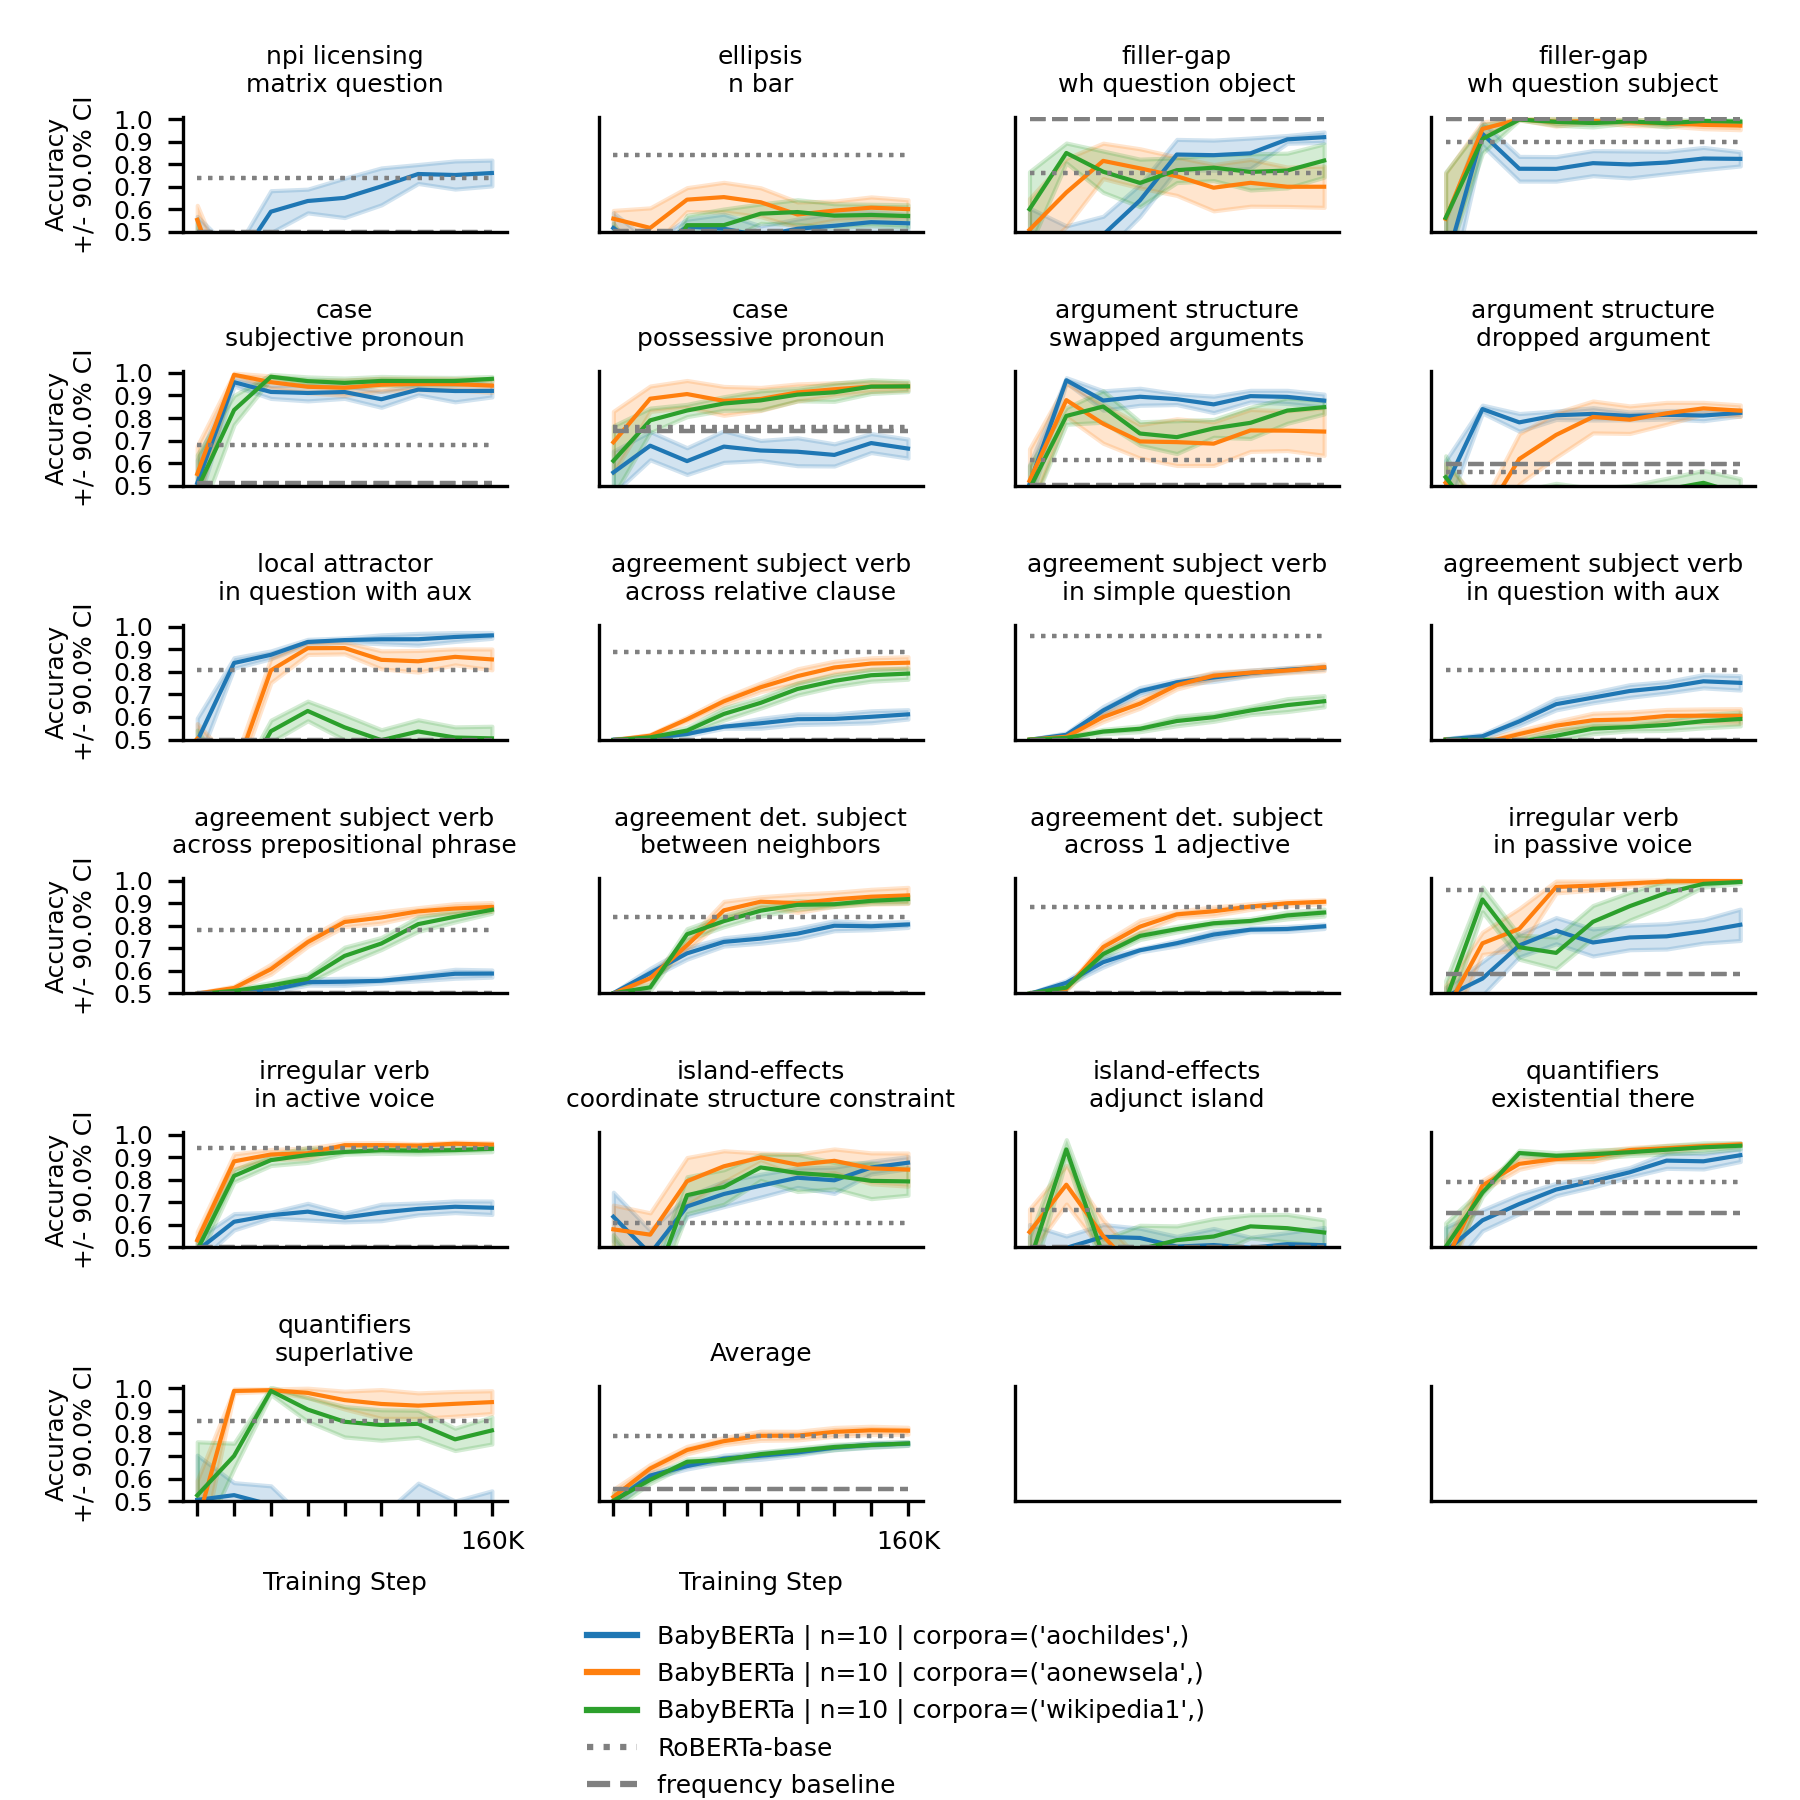
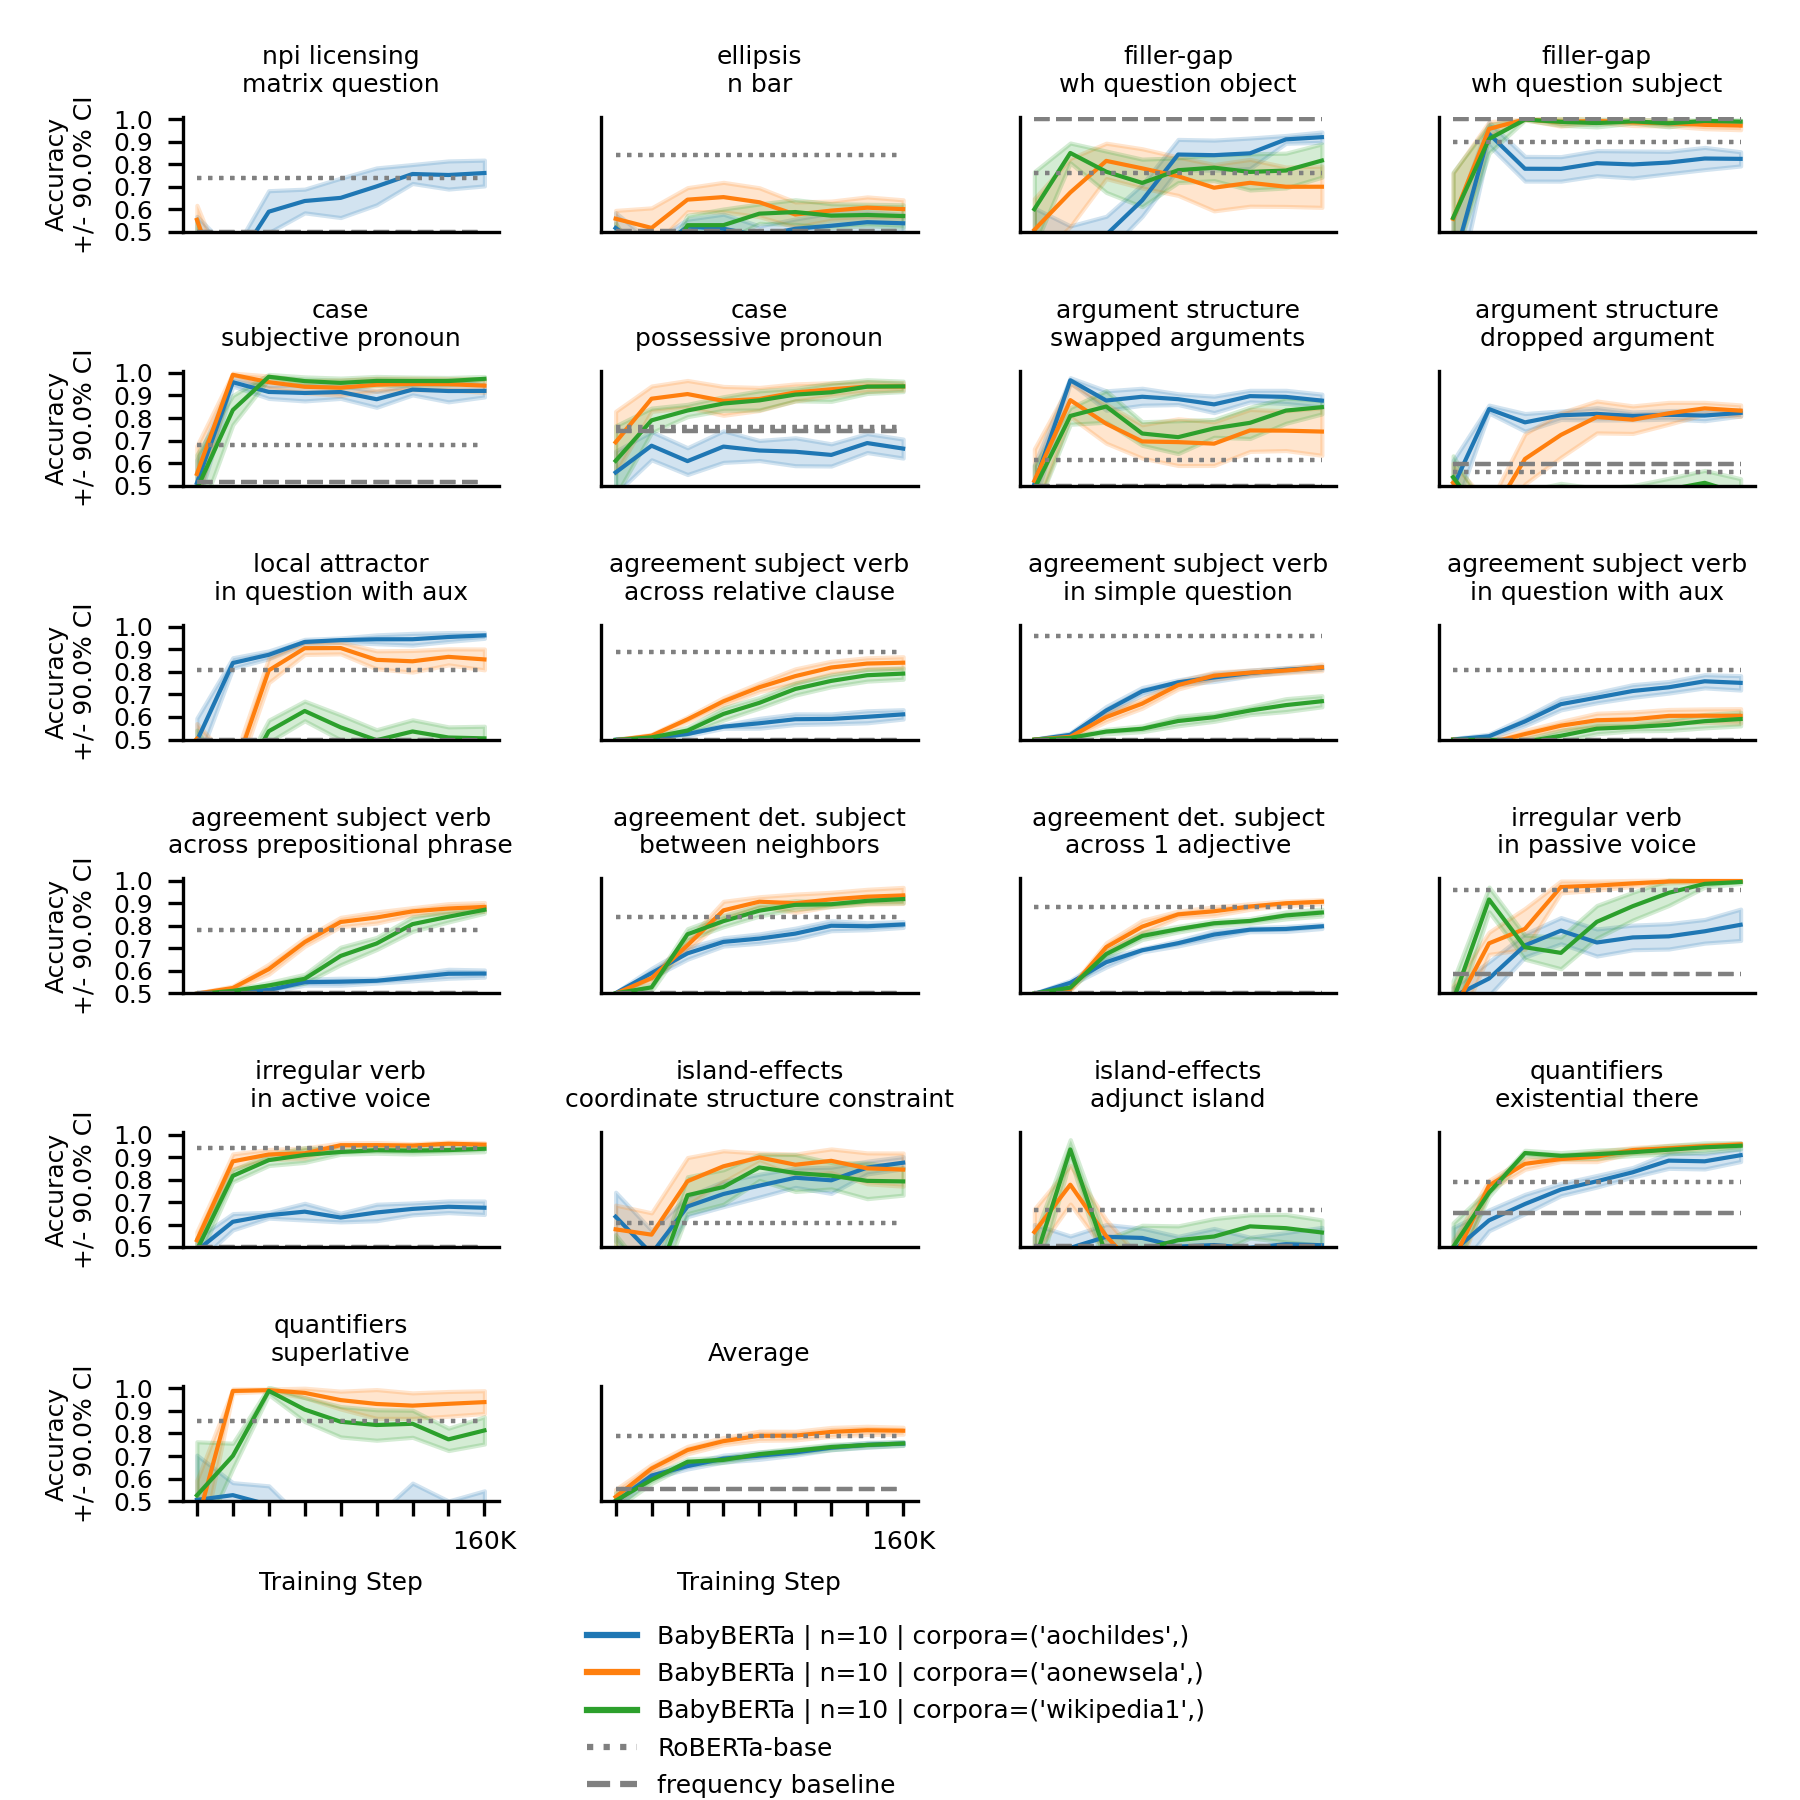
add images

diff --git a/zorro/visualizer.py b/zorro/visualizer.py
@@ -43,10 +43,8 @@ class Visualizer:
                  fig_size: int = (6, 6),
                  dpi: int = 300,
                  line_width: int = 1,
+                 show_partial_figure: bool = False,
                  ):
-
-        if not y_lims:
-            y_lims = [0.5, 1.01]
 
         # calc num rows needed
         self.num_cols = 4
@@ -57,10 +55,6 @@ class Visualizer:
         self.num_rows = int(num_rows_for_data) + num_rows_for_legend
         self.num_rows += 1 if not num_rows_for_data.is_integer() else 0  # to fit summary
 
-        print(f'Num paradigms={num_paradigms}')
-        print(f'Num rows={self.num_rows}')
-        print(f'Num cols={self.num_cols}')
-
         self.fig, self.ax_mat = plt.subplots(self.num_rows, self.num_cols,
                                              figsize=fig_size,
                                              dpi=dpi,
@@ -70,7 +64,8 @@ class Visualizer:
         self.line_width = line_width
         self.x_axis_label = 'Training Step'
         self.y_axis_label = f'Accuracy\n+/- {self.confidence * 100}% CI'
-        self.y_lims = y_lims or [0.5, 1.0]
+        self.y_lims = y_lims or [0.5, 1.01]
+        self.show_partial_figure = show_partial_figure
         self.label_last_x_tick_only = label_last_x_tick_only
         self.x_ticks = configs.Eval.steps
 
@@ -165,8 +160,9 @@ class Visualizer:
         if ax_id == 0:
             self.plot_legend()
 
-        self.fig.tight_layout()
-        self.fig.show()
+        if self.show_partial_figure:
+            self.fig.tight_layout()
+            self.fig.show()
 
     def plot_summary(self):
         """plot average accuracy (across all paradigms) in last axis"""
@@ -232,6 +228,10 @@ class Visualizer:
             h = sem(curves, axis=0) * t.ppf((1 + confidence) / 2, n - 1)  # margin of error
             ax.fill_between(x, y + h, y - h, alpha=0.2, color=color)
 
+        # remove axis decoration from any remaining axis
+        for ax_id, ax in self.axes:
+            ax.axis('off')
+
         self.fig.show()
 
     def plot_legend(self):
@@ -251,7 +251,3 @@ class Visualizer:
                         ncol=1,
                         frameon=False,
                         fontsize=configs.Figs.leg_font_size)
-
-        self.fig.tight_layout()
-        self.fig.show()
-

diff --git a/zorro/figs.py b/zorro/figs.py
@@ -29,9 +29,7 @@ def get_legend_label(group2model_output_paths,
     else:
         runs_path = configs.Dirs.runs_remote
 
-    path = runs_path / group_name / 'param2val.yaml'
-    with path.open('r') as f:
-        param2val = yaml.load(f, Loader=yaml.FullLoader)
+    param2val = load_param2val(group_name, runs_path)
 
     if configs.Eval.n_override:
         reps = configs.Eval.n_override  # cheating a little bit when reps is not perfectly consistent across groups
@@ -41,8 +39,11 @@ def get_legend_label(group2model_output_paths,
 
     # make label
     res = f'BabyBERTa | n={reps} | '
-    conditions = configs.Eval.conditions
-    for c in conditions:
+    for c in configs.Eval.conditions:
+        if c == 'load_from_checkpoint':
+            param2val_previous = load_param2val(param2val[c], runs_path)
+            res += f'previously trained on={param2val_previous["corpora"]} '
+            continue
         try:
             val = param2val[c]
         except KeyError:
@@ -57,10 +58,17 @@ def get_legend_label(group2model_output_paths,
     return res
 
 
+def load_param2val(group_name, runs_path):
+    path = runs_path / group_name / 'param2val.yaml'
+    with path.open('r') as f:
+        param2val = yaml.load(f, Loader=yaml.FullLoader)
+    return param2val
+
+
 def show_barplot(template2group_name2accuracies: Dict[str, Dict[str, np.array]],
                  group2model_output_paths: Dict[str, List[Path]],
                  paradigm: str,
-                 step: int,
+                 step: str,
                  xlabel: str = '',
                  verbose: bool = False,
                  ):

diff --git a/scripts/plot_accuracy.py b/scripts/plot_accuracy.py
@@ -6,7 +6,6 @@ from pathlib import Path
 from zorro import configs
 from zorro.prepare import prepare_data_for_plotting
 from zorro.io import get_group2model_output_paths
-from zorro.figs import show_barplot
 from zorro.visualizer import Visualizer, ParadigmData
 
 phenomena = [
@@ -58,7 +57,9 @@ v = Visualizer(phenomena_paradigms=phenomena_paradigms)
 
 
 # for all paradigms
-for phenomenon, paradigm in phenomena_paradigms:
+for n, (phenomenon, paradigm) in enumerate(phenomena_paradigms):
+    print(f'Scoring and plotting results for phenomenon={phenomenon:<36} paradigm={paradigm:<36} '
+          f'{n + 1:>2}/{len(phenomena_paradigms)}')
 
     # group_names
     if configs.Eval.param_names is None:
@@ -82,7 +83,6 @@ for phenomenon, paradigm in phenomena_paradigms:
     print(f'Found params={group_names}')
 
     # load model output at all available steps
-    print('Loading model model output...')
     group2model_output_paths = get_group2model_output_paths(group_names,
                                                             runs_path,
                                                             phenomenon,
@@ -100,7 +100,7 @@ for phenomenon, paradigm in phenomena_paradigms:
     )
 
     for step in configs.Eval.steps:
-        print(f'===============\nstep={step:,}\n===============')
+        print(f'step={step:>12,}')
 
         # filter files by step
         group2model_output_paths_at_step = {g: [fp for fp in fps if filter_by_step(fp, step)]

diff --git a/scripts/verify_implementation.py b/scripts/verify_implementation.py
@@ -7,6 +7,8 @@ compare end-of-training accuracy between models that vary in:
 """
 
 from zorro import configs
+from zorro.figs import show_barplot
+from zorro.prepare import prepare_data_for_plotting
 
 conditions = ['framework', 'is_official', 'is_base', 'is_reference' ]
 
@@ -37,7 +39,6 @@ else:
     runs_path = configs.Dirs.runs_remote
 
 
-
 # get list of (phenomenon, paradigm) tuples
 phenomena_paradigms = []
 for phenomenon in phenomena:
@@ -52,7 +53,6 @@ for phenomenon in phenomena:
 for phenomenon, paradigm in phenomena_paradigms:
 
     # load model output at all available steps
-    print('Loading model model output...')
     group2model_output_paths = get_group2model_output_paths(group_names,
                                                             runs_path,
                                                             phenomenon,
@@ -74,6 +74,6 @@ for phenomenon, paradigm in phenomena_paradigms:
     show_barplot(template2group_name2accuracies,
                  group2model_output_paths,
                  paradigm,
-                 step,
+                 step='end-of-training',
                  verbose=True,
                  )

diff --git a/zorro/data.py b/zorro/data.py
@@ -27,7 +27,6 @@ class DataExperimental:
 
         # load ordered sentences - the only way to know which sentences are paired (answer: consecutive sentences)
         vocab_size = model_output_path.parent.name
-        print(f'Loading test sentences with vocab size={vocab_size}')
         path = configs.Dirs.root / 'sentences' / vocab_size / f'{phenomenon}-{paradigm}.txt'
         sentences_ordered = [s.split() for s in path.open().read().split('\n')]
         self.pairs: List[Tuple[List[str], List[str]]] = [(s1, s2) for s1, s2 in zip(sentences_ordered[0::2],
@@ -67,7 +66,6 @@ class DataBaseline:
 
         self.group_name = group_name
 
-        print(f'Loading test sentences with vocab size={configs.Data.vocab_size}')
         path = configs.Dirs.root / 'sentences' / str(configs.Data.vocab_size) / f'{phenomenon}-{paradigm}.txt'
         sentences_ordered = [s.split() for s in path.open().read().split('\n')]
         self.pairs: List[Tuple[List[str], List[str]]] = [(s1, s2) for s1, s2 in zip(sentences_ordered[0::2],

diff --git a/zorro/scoring.py b/zorro/scoring.py
@@ -4,6 +4,7 @@ from zorro.data import DataExperimental, DataBaseline
 
 
 def count_correct_choices(data: Union[DataExperimental, DataBaseline],
+                          verbose: bool = False,
                           ) -> int:
     """
     for each sentence pair in the original, ordered file of test sentences,
@@ -47,10 +48,11 @@ def count_correct_choices(data: Union[DataExperimental, DataBaseline],
         print(f'Scored {res} correct and {num_false} false and skipped {num_skipped}')
         raise RuntimeError(f'Expected {num_expected_scores:,} but got {num_scored:,} scores')
 
-    print(f'correct={res:>9,}')
-    print(f'false  ={num_false:>9,}')
-    print(f'total  ={num_scored :>9,}')
-    print(f'skipped={num_skipped :>9,}')
-    print()
+    if verbose:
+        print(f'correct={res:>9,}')
+        print(f'false  ={num_false:>9,}')
+        print(f'total  ={num_scored :>9,}')
+        print(f'skipped={num_skipped :>9,}')
+        print()
 
     return res

diff --git a/zorro/prepare.py b/zorro/prepare.py
@@ -1,9 +1,9 @@
-from typing import Dict, List, Tuple
+from typing import Dict, List
 import numpy as np
 from pathlib import Path
 
 from zorro.scoring import count_correct_choices
-from zorro.data import DataExperimental, DataBaseline
+from zorro.data import DataExperimental
 from zorro import configs
 
 
@@ -42,7 +42,6 @@ def prepare_data_for_plotting(group2model_output_paths: Dict[str, List[Path]],
            for template in templates}
 
     for group_name in group_names:
-        print(group_name)
 
         # read model output into instance of DataExperimental
         output_paths = group2model_output_paths[group_name]
@@ -60,7 +59,6 @@ def prepare_data_for_plotting(group2model_output_paths: Dict[str, List[Path]],
                 template2pairs = {templates[0]: data.pairs}
 
             for template in templates:
-                print(template)
 
                 pairs = template2pairs[template]
                 assert pairs

diff --git a/zorro/configs.py b/zorro/configs.py
@@ -40,8 +40,8 @@ class Eval:
              # newsela goes to 160K
              # childes goes to 240K
              ]
-    param_names = [f'param_{i:03}' for i in [1, 2, 3]]
-    conditions = ['corpora', ]  # can be empty list
+    param_names = [f'param_{i:03}' for i in [11, 13]]
+    conditions = ['corpora', 'leave_unmasked_prob', 'load_from_checkpoint']  # can be empty list
     included_params = {}
     categorize_by_template = False
     n_override = None  # TODO set this to None
